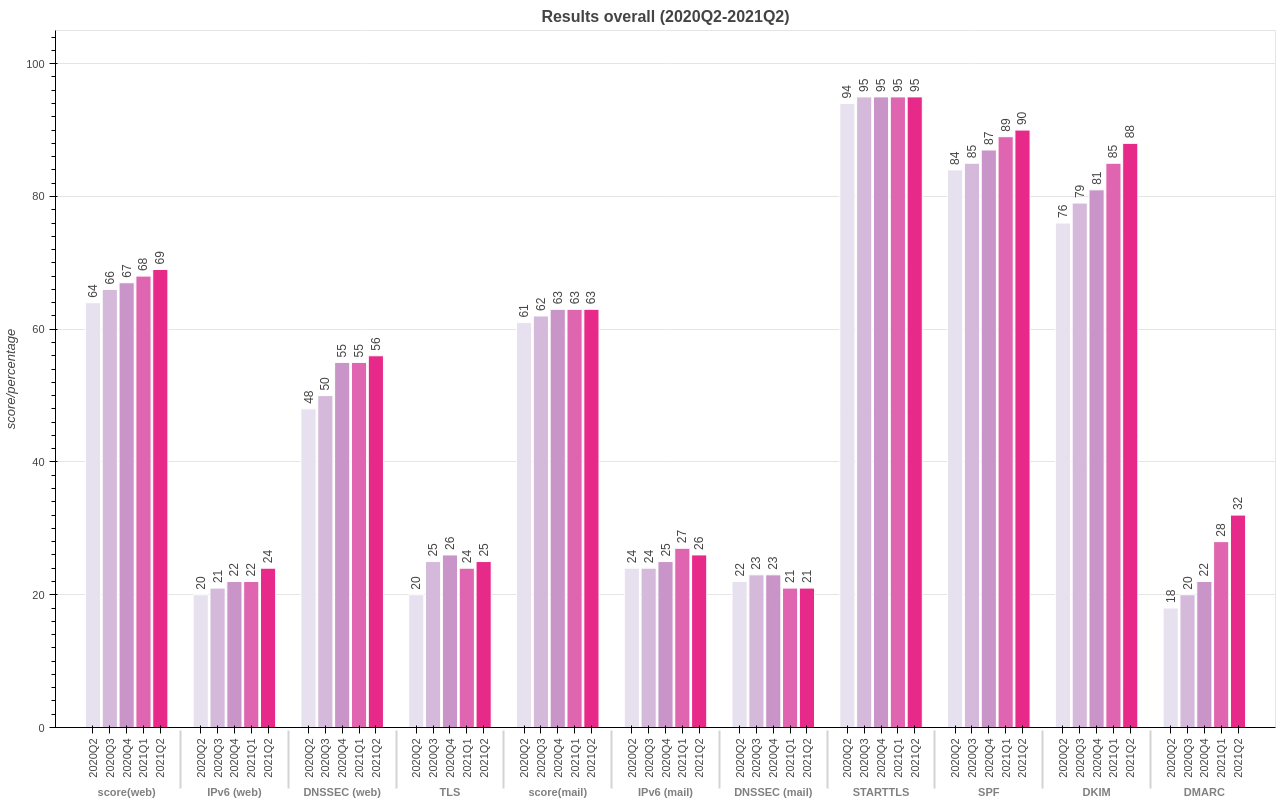
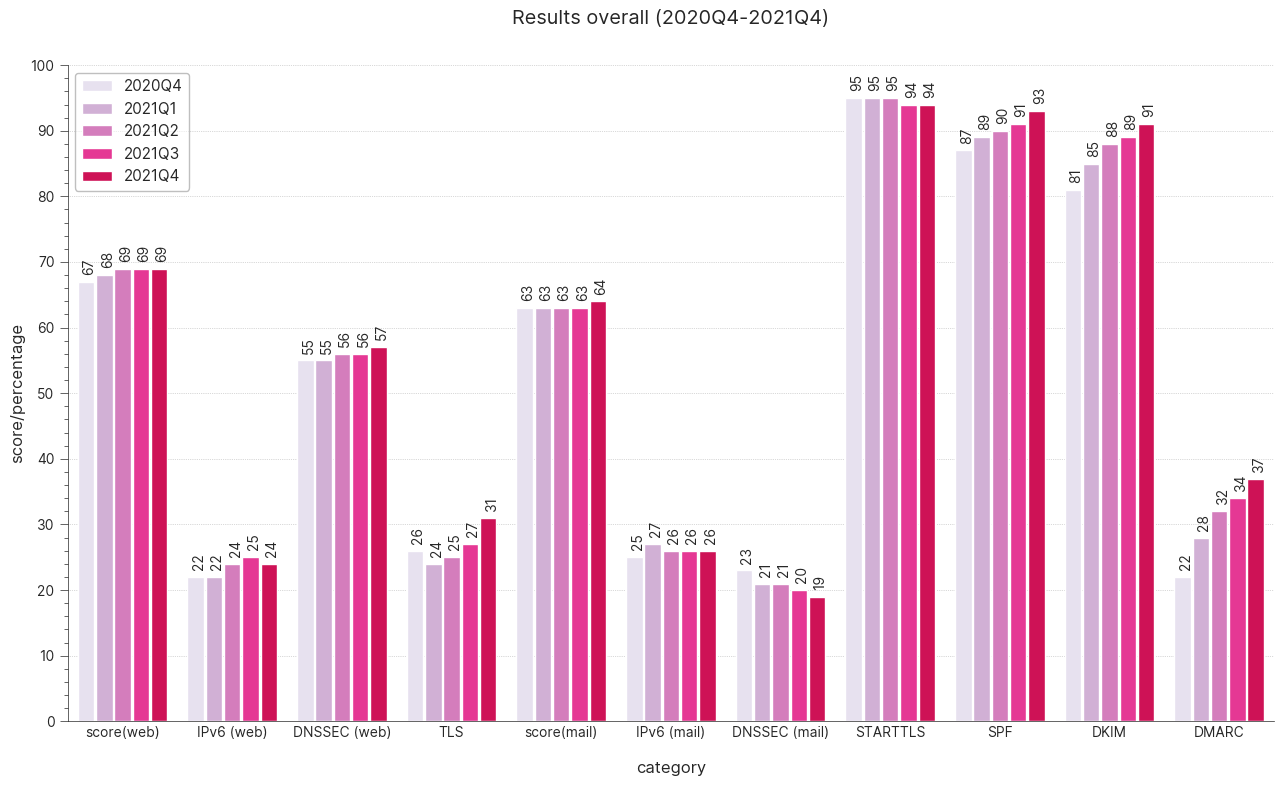
Update documentation to current implementation

Changed region(s): [[0.0, 0.0916, 1.0, 1.0], [0.0312, 0.0611, 0.1562, 0.2748], [0.4062, 0.0, 0.6562, 0.0305]]

diff --git a/README.md b/README.md
@@ -113,12 +113,14 @@ To check the status of a specific request, use the *stat* command together with 
 
 
 ### Retrieving the results
-Once the status of a request is *'generating'* or *'done'*, the measurements are ready.
+Once the status of a request is *'generating'* or *'done'*, the measurements are ready. If the status is *'generating'* then the measurement is done, but the report still needs to be generated from the results. This will happen when you request the status of the request or try to retrieve its results. After generating the report, the status will change from *generating* to *done*.
 
-The report can be retrieved by using the *get* command with the *request_id*, e.g.:
+With either state, the report can be retrieved by using the *get* command with the *request_id*, e.g.:
 ```
 ./batch.py get cb7be7ed776e464796cd8514c6e2a0e7
 ```
+The script will recognise measurements that have a *generating* status and will poll in 5 second intervals for readiness of the report, retrieving it once it is ready.
+
 The output will be shown on screen by default unless an output file is specified with the -o argument, e.g.: 
 
 ```
@@ -132,16 +134,16 @@ You can process the results with the process.py script, either an individual mea
 #### Storing as duckdb
 To process all measurements in the *measurements* directory and store them in the duckdb database *output.duckdb* use:
 ```
-./process.py measurements duckdb output
+./process.py measurements output.duckdb
 ```
-Mail and web measurements results will be stored in separate tables ('mail' and 'web' respectively).
+If processing multiple measurements, mail and web measurements results will be stored in separate tables ('mail' and 'web' respectively).
 
 The script will also add information on the month and quarter of the measurements (yyyyQ#, e.g. 2020Q4). Please note that a measurement done in the months 1,4,7,10 (January, April, July, October) will be marked as measurements for the *preceding* quarter. So a measurement in January 2021 will be marked as a 2020Q4 measurement. It helps to do measurements roughly on the same day of the month/quarter. If you want to do quarter measurements then do them at the start of January, April, July, and October.
 
 #### Storing as other formats
 
-Measurement results can also be stored in an xlsx file or csv files by replacing *duckdb* in the command above with *xlsx* or *csv*.
-For xlsx the mail and web results will be put into separate sheets ('mail' and 'web'). With csv two separate output files will be produced for the mail and web results.
+Measurement results can also be stored in an xlsx file or csv files by simply changing the *duckdb* extension of the output file in the command shown above to *xlsx* or *csv*.
+For xlsx format and multiple measurements, the mail and web results will be put into separate sheets ('mail' and 'web'). With csv and multiple measurements, two separate output files will be produced for the mail and web results.
 
 If you don't want the measurements combined into a single database or file, add the -i flag to the command.
 This will process all json files individually to the specified output type, creating output files with the same name as the json input file but with a different extension reflecting the output type.
@@ -151,7 +153,7 @@ This will process all json files individually to the specified output type, crea
 Additional information from the original domain xlsx file can be included by specifying the domain filename and (optionally) the column(s) to include. With no column specified the default of 'type' will be used.
 To process the same results as in the example above, but now including the information from the 'type' and 'name' columns use:
 ```
-./process.py measurements duckdb output -d domains/domains.xlsx -m type,name
+./process.py measurements output.duckdb -d domains/domains.xlsx -m type,name
 ```
 
 Please note that the column names cannot contain spaces and that multiple columns need to be separated by a comma *without spaces* as well.
@@ -164,12 +166,7 @@ Once you have assembled a number of months (or quarters) worth of measurements y
 
 ![Example graph](https://raw.githubusercontent.com/poorting/internet.nl_batch_scripts/master/graphs/Scores-overall.png)
 
-Input data for the graphs is taken from a duckdb database, such as the one created by the commands shown above. The graphs are made using the [bokeh graphics library](https://docs.bokeh.org/en/latest/index.html).
-
-### Dependencies
-Bokeh uses Selenium for creating the resulting graphic files (in PNG and SVG format), so you need to have this installed (it is in requirements.txt) as well as a suitable driver ([*geckodriver*](https://github.com/mozilla/geckodriver/releases) or [*chromedriver*](https://chromedriver.chromium.org/downloads)). 
-
-**NB: Note that the drivers must be the same version as the browser you are using!**
+Input data for the graphs is taken from a duckdb database, such as the one created by the commands shown above. The graphs are made with [matplotlib](https://matplotlib.org/).
 
 ### Creating the graphs
 With the data present in the duckdb file, `graphs.py` will produce the graphs in the specified output directory:
@@ -184,7 +181,7 @@ To produce graphs for the previous six months:
 ./graphs.py output.duckdb graphs 6
 ```
 
-To produce graphs for the last N quarters instead of the last N months, add the -q flag:
+To produce graphs for the last N quarters instead of the last N months, add the --quarters or -q flag:
 ```
 ./graphs.py output.duckdb graphs 6 -q
 ```
@@ -200,8 +197,8 @@ The graphs produced are:
 * Bar graph of only the latest scores for web/mail for every distinct *type* in the data (e.g. 'Uni','Research') **if** *type* data is available. 
 * Detailed tables overall, one for mail, one for web.
 * Detailed tables (both web and mail) for every distinct *type* in the data (e.g. 'Uni','Research') **if** *type* data is available.
-* Top 5 'improvers' overall, for both web and mail
-* Bottom 5 'improvers', for both web and mail
+* Top 5 'improvers' overall, for both web and mail. That is: the domains that improved most compared to the previous period (month or quarter)
+* Bottom 5 'improvers' (usually meaning: the 5 domains that deteriorated the most compared to previous period), for both web and mail
 * Top 0 (==all) 'improvers' overall, for both web and mail
 
 Graphs taking *type* into account are of course only made if such data is available in the database. That is: you added it in the process step as shown above. 
@@ -227,7 +224,7 @@ Improvement (or deterioration) is determined by comparing the latest scores with
 The number between brackets after the domain names is the difference in the total score for that domain (2021Q2) compared to the previous period (2021Q1). 
 
 Green squares mean a 'pass' for a topic (e.g. IPv6), red squares denote a 'fail'. A lighter colour square means it changed compared to the previous period. So a light green square denotes a 'pass' where the previous period it was a 'fail' (DNSSEC for the first domain in the left example).
-Similarly, a light red square means a 'fail' where the previous period it was a 'pass' (DKIM for the first domain in the right example).
+Similarly, a light red square means a 'fail' where the previous period it was a 'pass' (DKIM for the first three domains in the right example).
 
 In essence: light green squares are improvements, light red squares are deteriorations.
 
